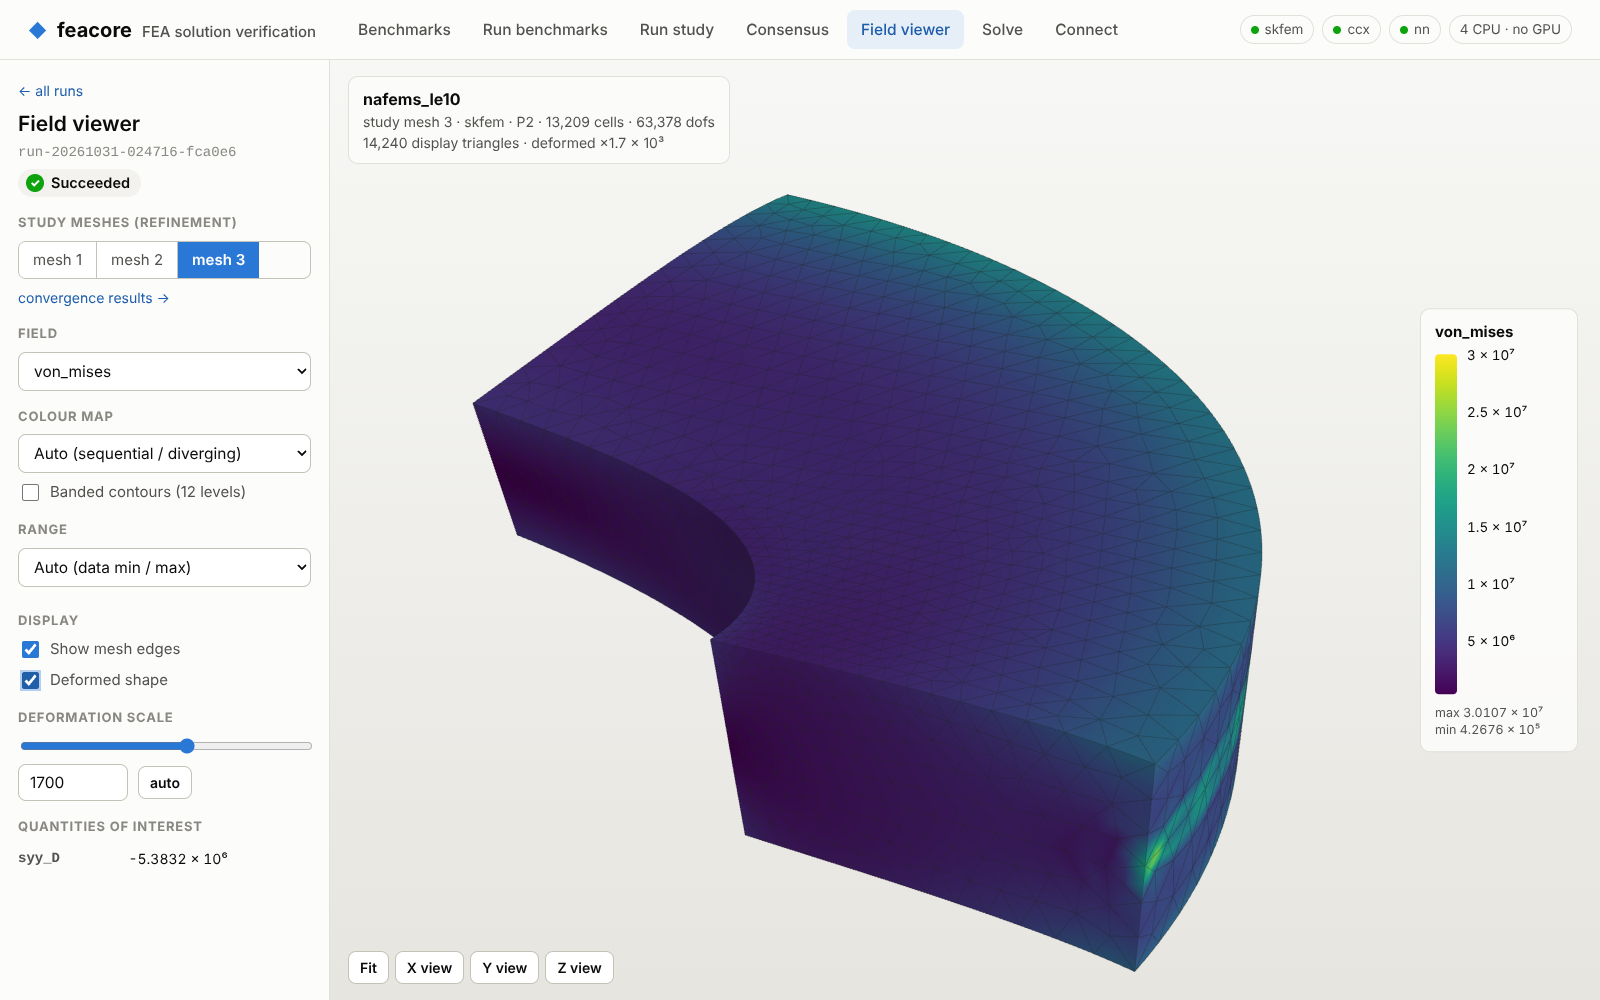
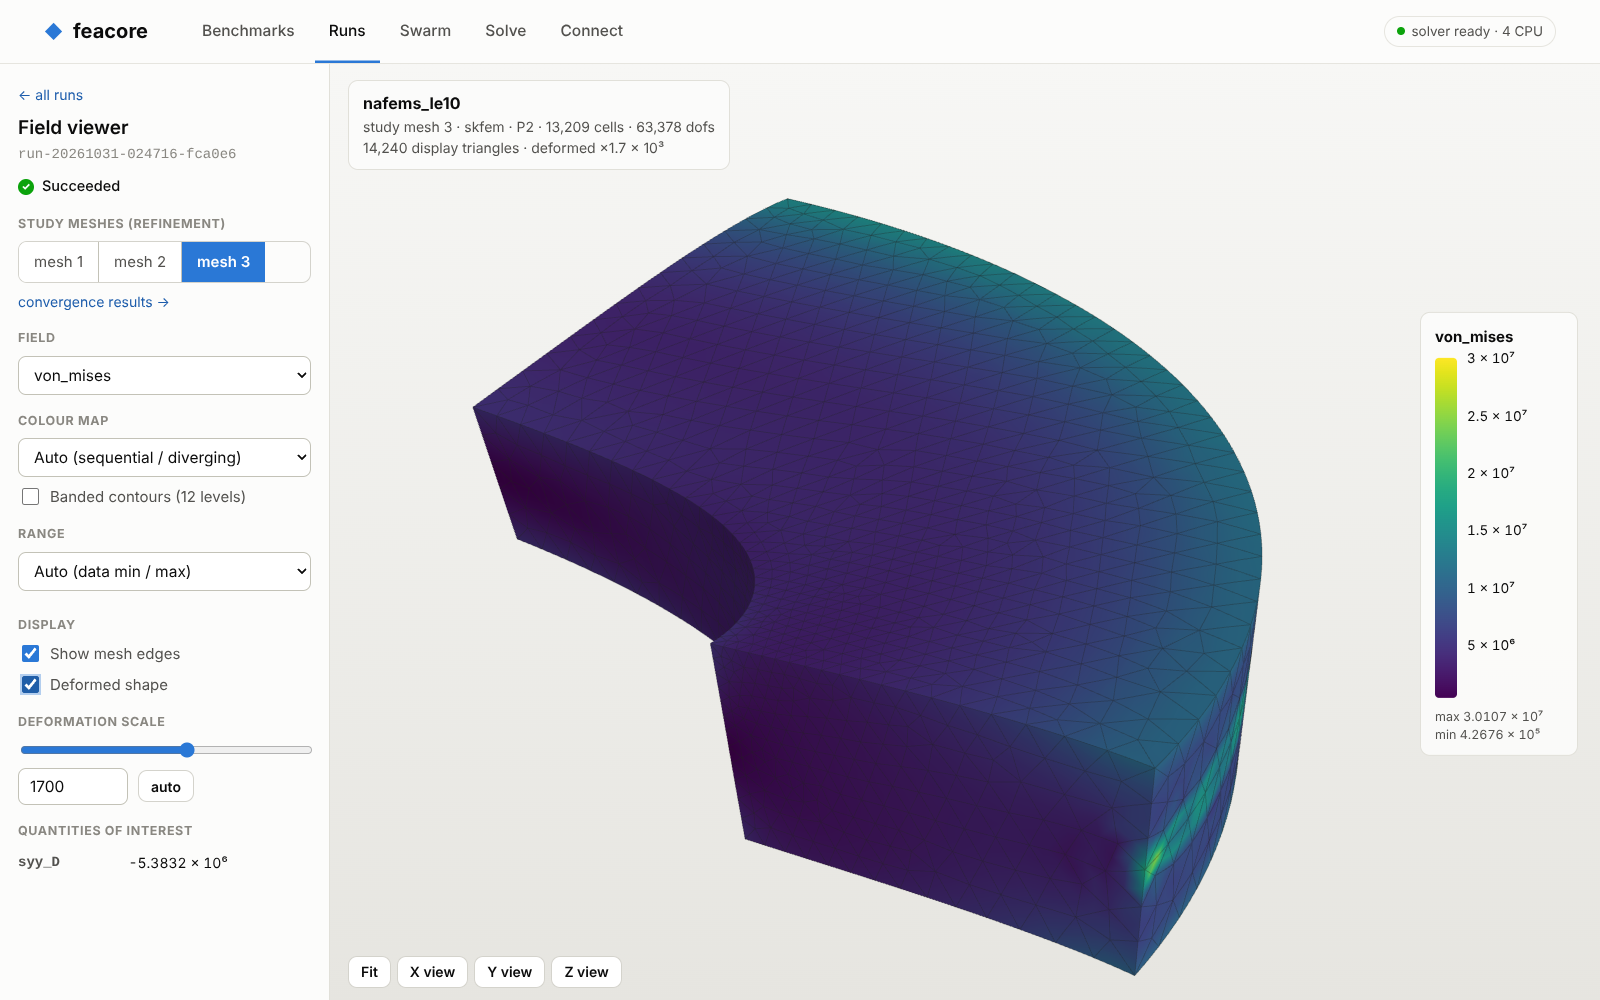
UI cleanup and Swarm page: simpler navigation, calmer styling, ACE swarm leaderboards
Claude-Session: https://claude.ai/code/session_01UubxiPFw75t2eo7dK6S6HZ

diff --git a/feacore/ui/static/js/plot.js b/feacore/ui/static/js/plot.js
@@ -342,7 +342,7 @@ export function stripChart(opts) {
     g.append(s('line', { x1: m.l, x2: W - m.r, y1: Y(t), y2: Y(t), stroke: t === 0 ? C.axis : C.grid, 'stroke-width': t === 0 ? 1.5 : 1 }));
     g.append(s('text', { x: m.l - 10, y: Y(t) + 4.5, 'text-anchor': 'end', class: 'tick' }, (t > 0 ? '+' : '') + (+t.toFixed(2))));
   });
-  if (opts.zeroLabel && 0 >= y0 && 0 <= y1) g.append(s('text', { x: W - m.r - 4, y: Y(0) - 7, 'text-anchor': 'end', class: 'tick' }, opts.zeroLabel));
+  if (opts.zeroLabel && 0 >= y0 && 0 <= y1) g.append(s('text', { x: m.l + 6, y: Y(0) + 16, 'text-anchor': 'start', class: 'tick' }, opts.zeroLabel));
   g.append(s('text', { x: 16, y: (m.t + H - m.b) / 2, transform: `rotate(-90 16 ${(m.t + H - m.b) / 2})`, 'text-anchor': 'middle', class: 'axis-title' }, opts.yTitle || 'score'));
   const med = [];
   groups.forEach((gr, i) => {

diff --git a/feacore/ui/static/js/pages/swarm.js b/feacore/ui/static/js/pages/swarm.js
@@ -53,7 +53,7 @@ function draw(el, d, refresh) {
       label: `gen ${x.generation}`, sub: `${x.n_submissions} agent${x.n_submissions === 1 ? '' : 's'}`, median: x.median,
       points: x.points.map(p => ({ y: p.score, muted: p.gated, tip: `<b>${p.ace_run_id}</b> · ${p.problem_id}<br>score ${fmt(p.score, 3)}${p.gated ? '<br><span class="t-muted">gated</span>' : ''}` })),
     })),
-    yTitle: 'score  log₁₀(e_uniform / e_agent)', zeroLabel: 'uniform mesh, same node budget', width: 760,
+    yTitle: 'score', zeroLabel: '0 = uniform mesh, same node budget', width: 600, height: 280,
   });
   el.append(h('div', { class: 'grid-2', style: { marginBottom: '28px' } },
     h('div', { class: 'card' }, h('h2', {}, 'Score by generation'),

diff --git a/feacore/ui/static/css/app.css b/feacore/ui/static/css/app.css
@@ -367,3 +367,6 @@ details.more[open] > summary::before { transform: rotate(90deg); }
 @keyframes pulse { 0%, 100% { box-shadow: 0 0 0 0 rgba(12, 163, 12, 0.45); } 50% { box-shadow: 0 0 0 6px rgba(12, 163, 12, 0); } }
 .dots { display: inline-flex; gap: 5px; align-items: center; }
 .gate { display: inline-flex; align-items: center; gap: 6px; }
+.pcard .foot { flex-wrap: wrap; gap: 6px 16px; }
+.pcard .foot > span { white-space: nowrap; }
+.empty-state h2, .empty-state h3 { justify-content: center; }

diff --git a/docs/ui.md b/docs/ui.md
@@ -7,12 +7,14 @@ A web UI and HTTP API on top of `feacore`. It serves:
 - the **run store** (`feacore/runstore.py`): solves, studies and agent submissions as files, readable by the evaluator and the improvers.
 - the **multi-agent consensus view**: every agent's answer with its own error band, against the population and the reference.
 
-Pages (single-page app, no build step, `feacore/ui/static/`):
+Navigation has five sections: **Benchmarks** (library, problem pages, batch runs), **Runs** (studies, batches, solves, consensus), **Swarm** (the ACE agent loop), **Solve** and **Connect** (plus Health). Pages (single-page app, no build step, `feacore/ui/static/`):
 
 | page | what it shows |
 |---|---|
 | Benchmarks `#/benchmarks` | problem library, tag filter, detail with statement, 3D CAD preview with named groups, **evaluator view** (references, expectations, reference setup, studies); **Run with defaults** starts the reference study (skfem, P2, the problem's sizes) and opens its live view |
 | Run benchmarks `#/batch` | select many problems (by tag, family, ticked rows, "all with references"), choose backend / order / nested / meshes, queue one convergence study each; live per-problem progress; results table (reference, finest, extrapolated, p vs theory, GCI, error, pass / fail / divergence detected as expected, runtime) with links to each study's plot and finest-mesh field; CSV / JSON download. Batches persist in the run store |
+| Runs `#/runs` | tabs for convergence studies, benchmark batches, solves (opens the field viewer) and consensus views; "New study" and "Run benchmarks" start new work |
+| Swarm `#/swarm` | the ACE agent loop, live: loop and generation selectors, score distribution per generation, per-problem leaderboards (score, QoI vs reference, mesh, DOFs, solves, gates) linking to the field viewer and the problem's Consensus view. Empty state until the ACE bridge writes records |
 | Run study `#/study` | pick problem / backend / element order / refinement; live progress; per QoI: QoI vs log h with the Richardson extrapolation, the GCI band and the reference; error vs h (log-log, observed vs theoretical slope); verdict and flags in plain words |
 | Consensus `#/consensus/<problem>` | forest plot per QoI: each submission's finest-mesh value ± GCI, extrapolated value, consensus median, reference ± tolerance; per-submission verdicts and flags |
 | Field viewer `#/viewer/<run>` | 2D mesh / 3D boundary surface coloured by any field, colour bar, mesh edges, deformed shape with scale, study-level switcher. Tested smooth at 230k display triangles |
@@ -46,21 +48,19 @@ No Node and no build step are needed.
 
 ## Run on Brev
 
-On the instance (setup per CLAUDE.md / `docs/brev.md`), in tmux or with nohup:
+Setup on any account is one command (details in `docs/brev.md`):
 
 ```bash
-python -m feacore.ui --host 0.0.0.0 --port 8000 --threads 4 --token auto   # prints the share URL with ?token=
+curl -fsSL https://raw.githubusercontent.com/zucalerega/feagent/main/scripts/bootstrap.sh | bash
 ```
 
-Then reach port 8000:
+`scripts/serve.sh` keeps the UI running as a service (`python -m feacore.ui --host 0.0.0.0 --port 8000`). It auto-updates and waits while `active_jobs` (from `/api/health`) is non-zero. To reach port 8000:
 
-- **Console tunnel** (to share with the team): in the Brev console, open the instance's *Access* section → *Using Tunnels* and expose port 8000. Brev tunnels can require a browser login (Cloudflare) on first access. Scripts cannot do that login: either make the tunnel public and rely on `--token`, or use the port-forward.
-- **Port-forward** (your laptop, scripts, the agent harness): `brev port-forward <instance> --port 8000:8000`, then use http://localhost:8000.
-- SSH also works: `ssh -L 8000:localhost:8000 <instance>`.
+- **Brev HTTP Ports** (the team link): on the instance page, open **HTTP Ports**, add port **8000** and open the https link. Brev's sign-in sits in front of it, so no feacore token is needed there.
+- **Port-forward** (your laptop, scripts, the agent harness): `brev port-forward <instance> --port 8000:8000`, then use http://localhost:8000. Scripts can't pass Brev's browser sign-in, so they use this route.
+- Don't use the console's "TCP/UDP Open Port" dialog for this service. It opens the port unauthenticated to 0.0.0.0/0.
 
-The Brev steps come from the Brev CLI connectivity docs. docs.nvidia.com was not reachable from the dev container, so check the console menu names there.
-
-### Shared-token auth (for public tunnels)
+### Shared-token auth (only for links without Brev's sign-in)
 
 If `FEACORE_UI_TOKEN` or `--token` is set, every `/api/*` request must carry the token in one of three forms:
 
@@ -198,6 +198,46 @@ curl $S/api/consensus/nafems_le1
 
 The best estimate is the extrapolated value when the convergence and the extrapolation are reliable, otherwise the finest-mesh value. With 3 or more submissions, a submission is an `outlier_vs_consensus` when |best − median| > max(3·σ_robust, its own band, tolerance·|median|).
 
+## ACE swarm records (Swarm page)
+
+The ACE loop's bridge writes into the same run store, through `RunStore` or the HTTP API. `GET /api/swarm?loop_id=&generation=` reads it back. The response holds:
+
+- `loops`: each with its generations, counts and an `active` flag (new records in the last 3 min, which makes the page poll every 4 s);
+- `generations[]`: `n_submissions`, `n_running`, `n_gated`, median and best score, and one point per agent run;
+- `problems[].rows[]`: the selected generation's leaderboard.
+
+**Each ACE solve** is a run record:
+
+```json
+{"source": "ace", "agent_id": "ace:<ace_run_id>", "problem_id": "nafems_le1",
+ "meta": {"source": "ace", "loop_id": "L1", "generation": 3, "ace_run_id": "<id>", "solve_index": 2,
+          "mesh": {"h": 0.05, "order": 2, "refinements": 1}},
+ "qois": {...}, "info": {...SolveInfo...}, "status": "succeeded"}
+```
+
+**Each finished ACE agent run** is a submission. `run_ids` are its successful solves:
+
+```json
+{"problem_id": "nafems_le1", "agent_id": "ace:<ace_run_id>", "run_ids": ["run-...", "..."],
+ "meta": {"source": "ace", "loop_id": "L1", "generation": 3, "ace_run_id": "<id>",
+          "submitted_run_id": "run-...", "score": 0.42, "gates": [], "setup_diagnostics": ["..."],
+          "cited_bullets": ["..."], "tokens": 12345}}
+```
+
+Python: `store.create_run(..., source="ace", meta=...)` then `store.update_run(...)`, or `store.record_result(result, ..., source="ace", meta=...)`. Finish with `store.create_submission(problem_id, "ace:<id>", run_ids=..., meta=...)`.
+
+**Score** = log10(e_uniform / e_agent): 0 means as good as the best uniform mesh with the same node budget, +1 means ten times better, and a failed gate scores −2. The bridge computes it; the UI only displays it.
+
+Per agent run, the leaderboard shows:
+
+- the score;
+- the submitted run's value of the problem's primary QoI (the first reference) and its error;
+- the mesh (`meta.mesh`) and DOFs;
+- solves, as successful / attempted;
+- gates and diagnostics counts.
+
+Agents without a submission yet are listed as running. ACE submissions also appear in the regular Consensus view of each problem.
+
 ## Run-record format (for the harness and the evaluator)
 
 Root: `$FEACORE_RUNS_DIR`, else `<repo>/runs`. The store writes `runs/.gitignore` containing `*`, so nothing in it is ever committed. Every write is atomic (temp file + rename).
@@ -293,7 +333,7 @@ python -m pytest tests/test_ui_api.py -q
 
 The tests use FastAPI's TestClient on a temporary store and cover every endpoint. That includes real solves through `POST /api/solve`, a real three-level study, a benchmark batch (run, CSV / JSON, cancel), submissions, consensus and the token auth. They skip if no 2D elasticity problem is registered or `skfem` does not import.
 
-The screenshots were made with headless Chromium (Playwright) against a scratch store. `batch_*.png` show a real batch (8 fast 2D benchmarks + NAFEMS LE10); `study_live_le10.png` / `study_le10.png` show LE10 started with *Run with defaults*. The consensus screenshot shows **scripted test agents**: deterministic scripts (`agent_id` `scripted-*`) that mesh the CAD themselves, change the reference setup (P1 vs P2, other mesh sizes, two meshes only, a symmetry edge clamped by mistake) and solve through `POST /api/solve`. Every number is a real solve. None of them is an LLM agent.
+The screenshots were made with headless Chromium (Playwright) against a scratch store. `swarm_empty.png` shows the Swarm page before any ACE records exist. The populated view is covered by the API tests (synthetic records following the contract), and no ACE data is shown in a screenshot until the bridge has produced real records. `batch_*.png` show a real batch (8 fast 2D benchmarks + NAFEMS LE10); `study_live_le10.png` / `study_le10.png` show LE10 started with *Run with defaults*. The consensus screenshot shows **scripted test agents**: deterministic scripts (`agent_id` `scripted-*`) that mesh the CAD themselves, change the reference setup (P1 vs P2, other mesh sizes, two meshes only, a symmetry edge clamped by mistake) and solve through `POST /api/solve`. Every number is a real solve. None of them is an LLM agent.
 
 ## Known gaps
 
